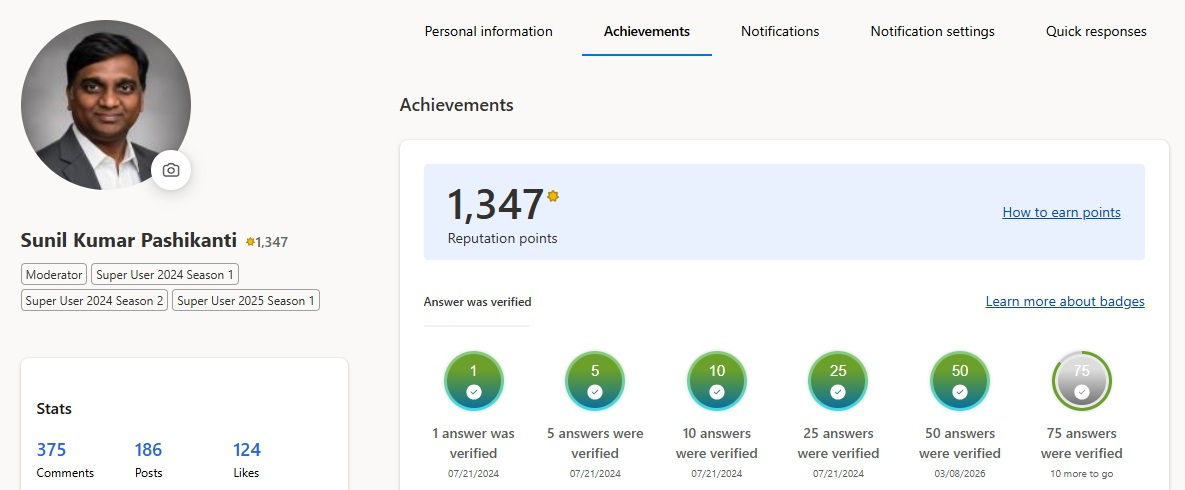
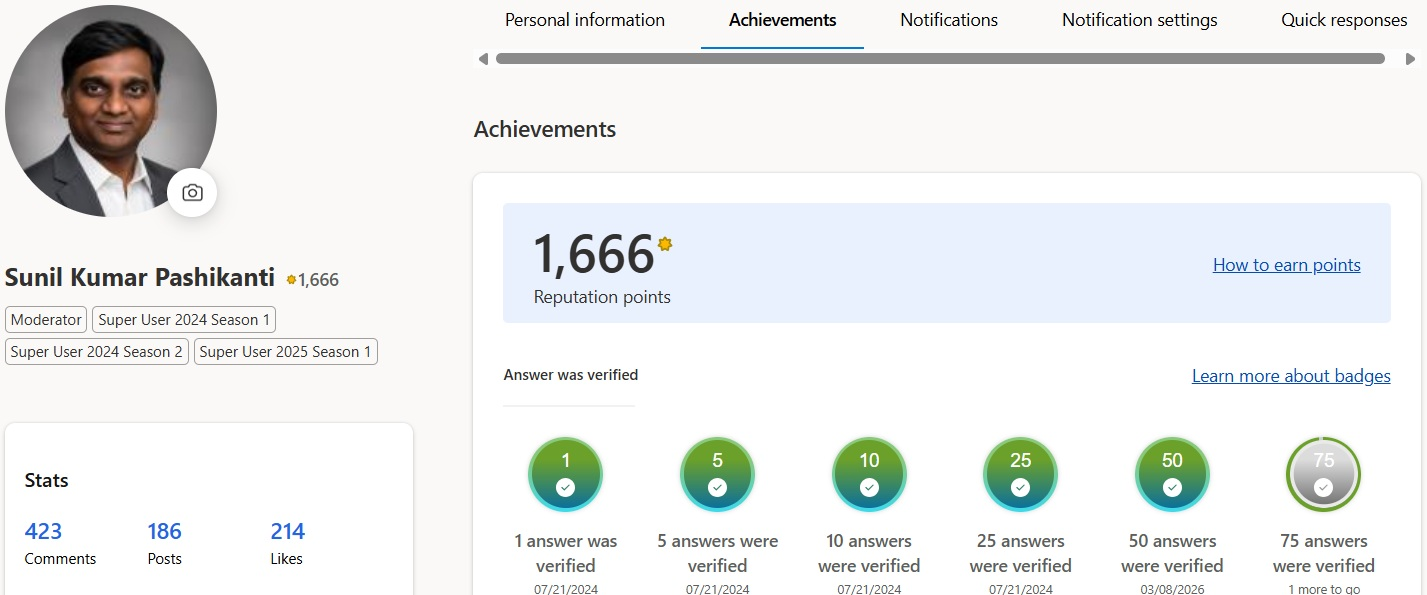
Community feedback (#31)
* Update and rename wall-of-love.md to community-feedback.md

* Replace Wall of Love with Community Feedback section

* Revise portfolio content and update contributions

Updated portfolio details including roles, contributions, and project descriptions.

* Add files via upload

* Revise resource content and add new PCF components

Updated resource descriptions and added new PCF components with links.

* Enhance portfolio with related resources section

Added a section for related downloads and practitioner aids.

* Enhance governance frameworks and PCF components sections

Updated governance frameworks and enterprise architecture sections with additional context and links.

diff --git a/content/portfolio.md b/content/portfolio.md
@@ -2,7 +2,7 @@
 title: "🌟 Principal Solutions Architect | Sunil Kumar Pashikanti"
 layout: "page"
 url: "/portfolio"
-summary: "Principal Architect & Microsoft Power Platform Super User: Open-source leadership, enterprise governance, and global community impact."
+summary: "Principal Architect | Microsoft Power Platform Moderator | Open-source leadership, enterprise governance, and global community impact."
 ---
 
 # 1. 👤 Principal Architect & Community Leader  
@@ -18,12 +18,18 @@ This portfolio highlights my **verified community contributions**, **open-source
 I am an active contributor and **Moderator** in the Microsoft Power Platform Community, focusing on providing high-quality, verified solutions.
 
 [![Sunil Pashikanti Community Stats](https://sunilpashikanti.com/images/SunilPashikantiCommunityStats.jpg)](https://community.powerplatform.com/profile/?userid=8077d18b-7b47-ee11-be6d-6045bdebe084)
-- **65+** Verified Accepted Community Solutions  
-- **1,300+** Community Reputation Points*
-- **3x Consecutive Microsoft Power Platform Super User** (2024 Season 1 & 2, 2025 Season 1)
-- **375+** Technical Contributions
-- **3** Open-source developer tools & frameworks  
-- **18+ Years** Experience in Enterprise Architecture & Software Engineering  
+- **Microsoft Power Platform Moderator** (current role)
+- **Microsoft Power Platform Super User**  
+  *(3 seasons: 2024 Season 1 & Season 2, 2025 Season 1)*
+- **74+** Verified Accepted Community Solutions  
+- **1,666+** Community Reputation Points  
+- **423+** Technical Contributions across Power Apps, Power Automate, and Copilot Studio  
+- **4** Open‑source developer tools & PCF components  
+  - PowerShimmer Ultra‑Light (PCF)  
+  - **PowerImage – Ultra Light (PCF)**  
+  - Excel Merger Utility  
+  - Forms‑to‑Excel Top Rank Emailer  
+- **18+ Years** of enterprise‑scale software engineering and architecture experience   
 
 👉 **Verified Community Profile:**  [Microsoft Power Platform Community Profile](https://community.powerplatform.com/profile/?userid=8077d18b-7b47-ee11-be6d-6045bdebe084)
 
@@ -42,21 +48,7 @@ I am an active contributor and **Moderator** in the Microsoft Power Platform Com
 
 ---
 
-> "Hi! Thank you SO MUCH for these incredible instructions.  I really appreciate the time and care you took to answer this.  thank you so much.
->  
-> Lisa"
-> — **Lisa**, Community Member ([View Thread](https://community.powerplatform.com/forums/thread/details/?threadid=bd74ea61-3e17-f111-8341-7ced8dcd20c9))
-
----
-
-> "Thank you for this reply. I will be trying this solution out sometime next week and will accept this as the solution then. 
->  
-> Edit: This solution worked! Thank you for explaining how this works!"
-> — **CeiBob**, Community Member ([View Thread](https://community.powerplatform.com/forums/thread/details/?threadid=db44c9fa-0c14-49c7-81b1-6b6b8a752377))
-
----
-
-👉 **[View the Full Wall of Love – Verified Testimonials](https://sunilpashikanti.com/wall-of-love/)**
+👉 **More verified feedback:** [Community Feedback & Recognition](/community-feedback)
 *A dedicated archive of verbatim community success stories and technical resolutions.*
 
 ---
@@ -76,8 +68,8 @@ Participated in the global AI innovation event at Power Platform Conference (PPC
   - [Agent Hack participant](https://www.credly.com/badges/ace83ef9-85cf-4c7d-a649-377aed17df0f/public_url)
   - [Guinness World Record hack attempt](https://www.credly.com/badges/1fbaf740-503a-4b04-924a-8f9d7c9937ee/public_url)
 
-## 4.3 🏆 Top 10 Community Leader (March 2026)
-In March 2026, I was officially recognized by Microsoft as one of the **Top 10 Global Leaders** in the Power Platform Community. 
+## 4.3 🏆 Top 10 Community Contributors (March 2026)
+In March 2026, I was officially recognized by Microsoft as one of the **Top 10 Community Contributors** in the Power Platform Community.
 
 [![March 2026 Leaderboard Ranking](/images/March2026LeaderboardRanking.jpg)](https://community.powerplatform.com/blogs/post/?postid=95601100-f72e-f111-88b4-7ced8dcd2411)
 
@@ -88,32 +80,101 @@ In March 2026, I was officially recognized by Microsoft as one of the **Top 10 G
 
 # 5. 🧩 Open-Source Leadership (PCF Components & Tools)
 
-## 5.1 ⭐ PowerShimmer Ultra-Light (PCF Component)  
-A high‑performance skeleton loader designed to improve Power Apps perceived performance.
+## 5.1 ⭐ PowerImage Ultra-Light (PCF Component)  
+An ultra‑lightweight, performance‑optimized image rendering PCF component designed to address large image payload inflation and rendering inefficiencies in Power Apps Canvas apps.
 
 **Highlights:**  
-- Built using advanced UX patterns used in enterprise web platforms (e.g., **Pabba Jewellers** architecture).  
-- Verified PCF Gallery Author.  
-- Developed for performance‑sensitive Power Apps scenarios.  
+- Designed to mitigate real‑world large image payload scenarios observed in enterprise Canvas apps (including extreme payload growth cases).  
+- Minimal DOM footprint with efficient rendering paths aligned to modern web standards.  
+- Built specifically for performance‑sensitive Power Apps scenarios.  
 
 **Links:**  
-- Author Profile: https://pcf.gallery/authors/sunil_kumar_pashikanti  
-- GitHub Repo: https://github.com/spashikanti/SunilP-PowerApps-Shimmer  
-- Technical Deep Dive (March 2026): https://sunilpashikanti.blogspot.com/2026/03/powershimmer-pcf-powerapps-ux-component.html  
+- PCF Gallery Author Profile: https://pcf.gallery/authors/sunil_kumar_pashikanti  
+- GitHub Repository: https://github.com/spashikanti/SunilP-PowerApps-Image  
+- PCF Gallery Listing: https://pcf.gallery/powerimage-ultra-light  
+- Technical Deep Dive:  
+  https://sunilpashikanti.com/posts/beyond-the-91mb-payload-architectural-image-optimization-in-power-apps/
 
-## 5.2 🛠 Enterprise Developer Utilities  
+---
 
-### **Excel Merger Utility**  
-End‑to‑end automation tool for multi‑source dataset consolidation across large enterprise teams.  
-GitHub: https://github.com/spashikanti/SunilP-ExcelMergerToMaster  
+## 5.2 ⭐ PowerShimmer Ultra-Light (PCF Component)  
+A high‑performance skeleton loader PCF component designed to improve perceived loading performance and user experience in Power Apps.
 
-### **Power Platform Governance Framework (2026)**  
-A comprehensive, enterprise-scale blueprint for secure and scalable Power Platform adoption.
+**Highlights:**  
+- Enhances perceived responsiveness during data fetch and render latency.  
+- Built using enterprise‑grade UX performance patterns validated in large‑scale production environments.  
+- Designed as a reusable PCF UX pattern for Canvas apps.
 
-- Governance Checklist (PDF):  
-  https://sunilpashikanti.com/resources/Enterprise%20Power%20Platform%20Governance%20-%20The%2025-Point%20Checklist.pdf 
-- Zoned Architecture Governance Diagram:  
-  https://sunilpashikanti.com/images/TheGovernanceTarget.png  
+**Links:**  
+- PCF Gallery Author Profile: https://pcf.gallery/authors/sunil_kumar_pashikanti  
+- GitHub Repository: https://github.com/spashikanti/SunilP-PowerApps-Shimmer  
+- PCF Gallery Listing: https://pcf.gallery/powershimmer-ultra-light  
+- Technical Deep Dive:  
+  https://sunilpashikanti.com/posts/architecting-modern-ux-powershimmer-ultra-light/
+
+---
+
+## 5.3 🛠 Excel Merger Utility  
+An automation utility for consolidating multiple Excel files into a single master dataset, reducing manual reconciliation and error‑prone workflows in enterprise environments.
+
+**Highlights:**  
+- Designed for recurring enterprise scenarios involving distributed Excel submissions.  
+- Reduces manual effort and improves data integrity through automation.  
+- Built as a reusable, maintainable Power Automate reference solution.
+
+**Links:**  
+- GitHub Repository: https://github.com/spashikanti/SunilP-ExcelMergerToMaster  
+- Technical Blogs:  
+  https://sunilpashikanti.blogspot.com/2026/03/merge-multiple-excel-files-into-one.html  
+  https://sunilpashikanti.blogspot.com/2026/03/merge-multiple-excel-files-workflow.html  
+
+---
+
+## 5.4 🛠 Forms‑to‑Excel Top Rank Emailer  
+A Power Automate solution that extracts Microsoft Forms responses into Excel, identifies top‑ranked submissions, and triggers targeted email notifications for downstream decision workflows.
+
+**Highlights:**  
+- Built for instructor evaluations, feedback scoring, and ranking‑based automation scenarios.  
+- Demonstrates practical Power Automate orchestration and Excel data shaping patterns.  
+- Designed as a reusable reference workflow for community and internal use.
+
+**Links:**  
+- GitHub Repository: https://github.com/spashikanti/SunilP-FormsToExcel-TopRankEmailer  
+- Technical Blog:  
+  https://sunilpashikanti.blogspot.com/2026/03/automating-instructor-evaluations-with.html  
+
+---
+
+## 5.5 🏛 Power Platform Governance & Practitioner Aids (2026)
+
+A curated set of **practical governance artifacts and practitioner aids** designed to support secure, scalable, and maintainable Power Platform adoption in enterprise environments.  
+These resources are based on real‑world implementation experience and are intended for architects, administrators, and advanced makers.
+
+**Highlights:**  
+- Translates abstract governance guidance into **actionable, day‑to‑day reference materials**.  
+- Supports both **Power Platform administration** and **Power Automate Desktop (PAD)** development scenarios.  
+- Designed for repeatable use across teams, environments, and onboarding efforts.
+
+**Resources:**  
+
+- **Power Platform Governance Checklist (2026)**  
+  A concise, architect‑focused checklist covering environment strategy, security boundaries, lifecycle management, and operational readiness.  
+  https://github.com/spashikanti/sunilpashikanti.github.io/releases/download/v1.0.0/SunilP_PP_Governance_Checklist_2026.pdf  
+
+- **Zoned Governance Model Diagram**  
+  A visual reference illustrating zoned environment strategies for balancing security, scale, and developer productivity.  
+  https://github.com/spashikanti/sunilpashikanti.github.io/releases/download/v1.0.0/SunilP_Zoned_Governance_Model.png  
+
+- **Power Automate Desktop Selector Cheat Sheet (2026)**  
+  A quick‑reference guide for commonly used PAD UI selectors, designed to reduce authoring errors and improve automation reliability.  
+  https://github.com/spashikanti/sunilpashikanti.github.io/releases/download/v1.0.0/SunilP_PAD_Selector_CheatSheet_2026.png  
+
+- **Power Automate Desktop Selector Playbook (2026)**  
+  A deeper practitioner playbook explaining selector strategies, patterns, and pitfalls for robust desktop automation workflows.  
+  https://github.com/spashikanti/sunilpashikanti.github.io/releases/download/v1.0.0/SunilP_PAD_Selector_Playbook_2026.pdf  
+
+👉 **Related downloads and practitioner aids:**
+See the [Resources page](/resources) for governance checklists, PAD selector playbooks, and reference diagrams.
 
 ---
 
@@ -133,7 +194,7 @@ Bridging **professional C#/.NET architecture** with **Power Platform fusion deve
 - Pro‑Code extensibility deep dives (PCF, Fluent UI, React controls)  
 - Azure + Dataverse architecture patterns  
 - Enterprise governance configuration walkthroughs  
-- Short-format educational videos for rapid learning  
+- Short-format educational videosfocused on practical, real‑world scenarios
 
 ---
 
@@ -161,7 +222,7 @@ Bridging **professional C#/.NET architecture** with **Power Platform fusion deve
 
 | Year | Key Contributions |
 |------|-------------------|
-| **2026** | Released **PowerShimmer PCF**, **Excel Merger Utility**; Published 2026 Enterprise Governance Frameworks. |
+| **2026** | Released **PowerImage Ultra‑Light (PCF)**, **PowerShimmer Ultra‑Light (PCF)**, **Excel Merger Utility**, **Forms‑to‑Excel Top Rank Emailer**; Published enterprise governance and practitioner framework resources. |
 | **2025** | Achieved **Super User (S1)**; Participated in PPCC Las Vegas Agent Hack. |
 | **2024** | **Super User (S1 & S2)**; Delivered 30+ accepted community solutions. |
 | **2023** | Launched technical YouTube channel; expanded into architecture mentorship. |
@@ -171,8 +232,8 @@ Bridging **professional C#/.NET architecture** with **Power Platform fusion deve
 
 # 10. 🔮 2026–2027 Roadmap (Planned Contributions)
 
-- Release **3–5 new PCF components** focused on performance & usability.  
-- Expand **Architect’s Corner** to 50+ educational videos.  
+- Continue releasing additional PCF components focused on performance and usability.
+- Continue expanding Architect’s Corner with regular educational videos focused on PCF, governance, and enterprise architecture.
 - Build reusable **governance templates** for organizations adopting Power Platform.  
 - Publish tooling accelerators for enterprise developers (C#, PowerShell, CLI utilities).  
 - Collaborative open-source initiatives.  

diff --git a/content/resources.md b/content/resources.md
@@ -6,13 +6,25 @@ summary: "Curated architectural assets, governance frameworks, PCF components, a
 ---
 
 A curated collection of my most impactful resources for Power Platform architects, fusion teams, and enterprise solution designers.  
-These assets are widely used by community members to implement scalable architecture, establish governance standards, and extend Power Apps with pro-code components.
+These assets are used by community members and practitioners to implement scalable architecture, establish governance standards, and extend Power Apps with pro‑code components.
+
+ℹ These resources are referenced in my [Portfolio – Open‑Source Leadership & Governance](https://sunilpashikanti.com/portfolio#55-power-platform-governance--practitioner-aids-2026) section as part of my community and architectural contributions.
 
 ---
 
 # 🧭 Governance Frameworks & Enterprise Architecture
+<span style="font-size: 0.85em; opacity: 0.75;">
+🔗 Referenced in <a href="/portfolio#55-power-platform-governance--practitioner-aids-2026">Portfolio</a>
+</span>
 
+
+_Primary audience: Power Platform Architects, Administrators, COE Leads, and Advanced Makers._
 ## 🏆 Enterprise Power Platform Governance Checklist (2026 Edition)
+<span style="font-size: 0.85em; opacity: 0.75;">
+🔗 Referenced in <a href="/portfolio#55-power-platform-governance--practitioner-aids-2026">Portfolio</a>
+</span>
+
+
 A comprehensive **25‑point governance model** covering:
 - Environment strategy  
 - DLP policies  
@@ -57,10 +69,23 @@ A high-resolution visual reference card for your second monitor. Quickly compare
 ---
 
 # 🧩 PCF Components & UX Innovation (Open Source)
+<span style="font-size: 0.85em; opacity: 0.75;">
+🔗 Referenced in <a href="/portfolio#55-power-platform-governance--practitioner-aids-2026">Portfolio</a>
+</span>
+
 
 I actively publish reusable components to extend Power Apps beyond out‑of‑box capabilities.  
 These controls are also listed on the **[PCF Gallery](https://pcf.gallery/authors/sunil_kumar_pashikanti)**, confirming my contribution as an open‑source PCF author.
 
+### ⭐ PowerImage Ultra-Light (PCF)
+An ultra‑lightweight image rendering component focused on eliminating image payload inflation and improving Canvas app performance.
+
+**Resources:**  
+- **PCF Gallery Listing:** https://pcf.gallery/powerimage-ultra-light  
+- **Source Code:** https://github.com/spashikanti/SunilP-PowerApps-Image  
+- **Architectural Deep Dive:**  
+  https://sunilpashikanti.com/posts/beyond-the-91mb-payload-architectural-image-optimization-in-power-apps/
+  
 ### ⭐ PowerShimmer Ultra-Light (PCF)
 A **high-performance skeleton loading component** designed to improve UX and perceived performance in Canvas & Model‑Driven Apps.  
 Documentation and details published in [my technical blog](https://sunilpashikanti.blogspot.com/2026/03/powershimmer-pcf-powerapps-ux-component.html).
@@ -72,8 +97,7 @@ Documentation and details published in [my technical blog](https://sunilpashikan
 ### 🛠 Community Tools
 Reusable developer utilities published for automation and data engineering scenarios, including:  
 - **[Excel Merge Utility](https://github.com/spashikanti/SunilP-ExcelMergerToMaster)** (multi-source dataset consolidation)  
-- Power Apps helper scripts  
-- Logic Apps / Power Automate developer helpers  
+- Power Automate and Logic Apps developer helper workflows  
 
 ➡ **View my open-source repositories:** https://github.com/spashikanti
 
@@ -92,7 +116,7 @@ Short-form and long-form videos covering:
 ---
 
 # 🧭 Coming Soon (2026 Roadmap)
-I maintain an evolving roadmap of learning resources designed for the community:
+I maintain an evolving roadmap of learning resources designed for the community: _All upcoming resources are planned with a focus on performance, governance, and long‑term maintainability._
 
 - New PCF controls (Performance-focused, UX-focused)
 - Advanced Dataverse Patterns (multi-region, multi-layer)

diff --git a/content/community-feedback.md b/content/community-feedback.md
@@ -1,24 +1,37 @@
 ---
-title: "💖 Wall of Love: Community Impact & Success Stories"
+title: "Community Feedback & Recognition"
 layout: "page"
-url: "/wall-of-love"
-summary: "A collection of unmodified feedback and testimonials from the global Microsoft Power Platform community."
+url: "/community-feedback"
+summary: "Selected, verbatim community feedback and formal recognition related to Power Platform knowledge sharing and technical support."
 ---
 
-# 💬 Wall of Love
+# 💬 Community Feedback & Recognition
 
-This page is a dedicated archive of **verbatim feedback** from the Microsoft Power Platform community. These testimonials represent real-world technical challenges resolved, organizational time saved, and the collaborative spirit of the Microsoft ecosystem.
+This page contains a **small selection of unmodified feedback and formal recognition** related to my participation in the Microsoft Power Platform community.  
+It is provided as **supporting evidence** of community trust and engagement, complementing my open‑source contributions and ongoing technical support efforts.
 
 ---
 
-# ⭐ Featured Recognition: Top 10 Global Leader
+## ⭐ Community Recognition (Time‑Bound)
 
-> "We love our Power Platform Community stars! Each month we honor our top contributors—community members who are the most active, answering questions and providing solutions... and sharing their expertise." 
+> "We love our Power Platform Community stars! Each month we honor our top contributors—community members who are the most active, answering questions and providing solutions, and sharing their expertise."  
 > — **Bret Fraser, Community Manager, Microsoft**
 
-[![Sunil Pashikanti - Top 10 Leaderboard](/images/March2026LeaderboardRanking.jpg)](https://community.powerplatform.com/blogs/post/?postid=95601100-f72e-f111-88b4-7ced8dcd2411)
+[![Power Platform Community – March 2026 Top Contributors](/images/March2026LeaderboardRanking.jpg)](https://community.powerplatform.com/blogs/post/?postid=95601100-f72e-f111-88b4-7ced8dcd2411)
 
-Being ranked as the **#5 contributor globally** in March 2026 is a testament to my commitment to helping the Power Platform community grow and succeed.
+In **March 2026**, I was recognized as one of the **Top 10 contributors globally** in the Microsoft Power Platform Community, based on solution quality, consistency, and engagement during that month.
+
+---
+
+## 🛠 Context
+
+Feedback and recognition shown here relate to:
+- Advanced Power Automate troubleshooting
+- Copilot Studio integration scenarios
+- Power Apps architecture and performance discussions
+- Community guidance on supported, enterprise‑ready patterns
+
+This page is **not a comprehensive list**, nor a measure of popularity, but rather a snapshot illustrating community‑level impact over time.
 
 ---
 
